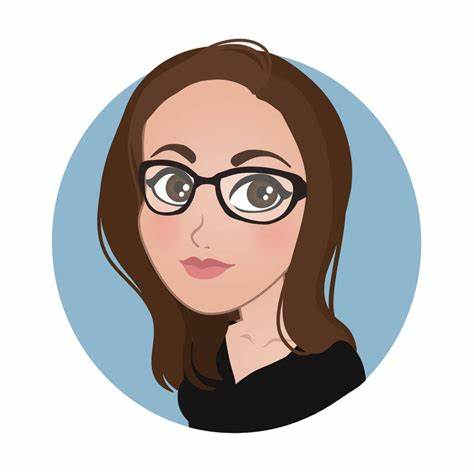
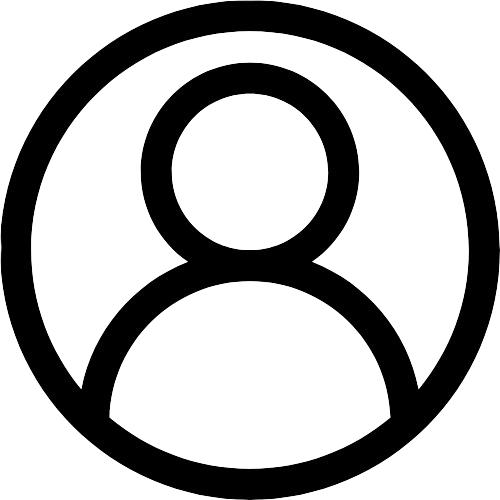
update

diff --git a/client/app/components/Mentorship/MentorPage.tsx b/client/app/components/Mentorship/MentorPage.tsx
@@ -1,0 +1,123 @@
+'use client';
+import { styles } from '@/app/styles/style';
+import React from 'react';
+import Image from 'next/image';
+import { FaSearch } from 'react-icons/fa';
+import Link from 'next/link';
+
+const MentorPage = () => {
+  return (
+    <div className="bg-white dark:bg-gray-900 min-h-screen text-black dark:text-white">
+      <div className="flex flex-col md:flex-row items-center px-6 md:px-16">
+        <div className="md:w-1/2 text-left">
+          <h1 className={' text-[50px] font-bold text-blue-500  text-center'}>Unlock
+             <span className='text-gray-600'>Guidance</span></h1>
+          <p className="text-lg font-Poppins">
+            Book a session with unstoppable mentors across domains & work
+            together to build your career!
+          </p>
+          <div className="flex mt-4">
+            <Link href="/MentorDetailsPage" className={styles.button + ' py-2 text-sm'}>
+              <FaSearch className="mr-2" /> Find Mentor
+            </Link>
+            <Link href="/MentorRegister"
+            className={styles.button + ' ml-4 px-4 py-2 text-sm'}>
+              Be a mentor</Link>
+          </div>
+        </div>
+        <div className="md:w-1/2 flex justify-center mt-6 md:mt-0">
+          <Image
+            src="/images/mentor1.png"
+            alt="mentors"
+            width={400}
+            height={400}
+            className="rounded-lg"
+          />
+        </div>
+      </div>
+      <div className="py-10 text-center">
+        <h2 className={'text-[30px] font-Poppins font-bold text-gray-700  dark:text-gray-300 '}>Top Mentors</h2>
+        <div className="grid grid-cols-1 sm:grid-cols-2 md:grid-cols-4 gap-6 mt-6 px-6">
+          <div className="bg-gray-100 dark:bg-gray-800 p-4 rounded-lg text-center">
+            <Image
+              src="/images/client1.jpg"
+              alt="Mentor 1"
+              width={80}
+              height={80}
+              className="rounded-full mx-auto"
+            />
+            <h3 className="mt-2 text-black dark:text-white">Vedansh Dubey</h3>
+            <p className="text-sm">HRBP @ Wipro | 150+ Case Competitions</p>
+          </div>
+          <div className="bg-gray-100 dark:bg-gray-800 p-4 rounded-lg text-center">
+            <Image
+              src="/images/client2.jpg"
+              alt="Mentor 2"
+              width={80}
+              height={80}
+              className="rounded-full mx-auto"
+            />
+            <h3 className="mt-2 text-black dark:text-white">Shiri Agarwal</h3>
+            <p className="text-sm">Product @ Telstra | MBA @ MDI</p>
+          </div>
+          <div className="bg-gray-100 dark:bg-gray-800 p-4 rounded-lg text-center">
+            <Image
+              src="/images/client3.jpg"
+              alt="Mentor 3"
+              width={80}
+              height={80}
+              className="rounded-full mx-auto"
+            />
+            <h3 className="mt-2 text-black dark:text-white">Aman Gupta</h3>
+            <p className="text-sm">Data Scientist @ Google</p>
+          </div>
+          <div className="bg-gray-100 dark:bg-gray-800 p-4 rounded-lg text-center">
+            <Image
+              src="/images/client1.jpg"
+              alt="Mentor 4"
+              width={80}
+              height={80}
+              className="rounded-full mx-auto"
+            />
+            <h3 className="mt-2 text-black dark:text-white">Neha Sharma</h3>
+            <p className="text-sm">Software Engineer @ Microsoft</p>
+          </div>
+          <div className="bg-gray-100 dark:bg-gray-800 p-4 rounded-lg text-center
+            flex">
+          <Image
+            src="/images/client1.jpg"
+            alt=""
+            width={50}
+            height={50}
+            className="rounded-full w-[50px] h-[50px]"
+          />
+          <Image
+            src="/images/client2.jpg"
+            alt=""
+            width={50}
+            height={50}
+            className="rounded-full w-[50px] h-[50px] ml-[-20px]"
+          />
+          <Image
+            src="/images/client3.jpg"
+            alt=""
+            width={50}
+            height={50}
+            className="rounded-full w-[50px] h-[50px] ml-[-20px]"
+          />   
+            <Link
+              href="/MentorDetailsPage"
+              className="dark:text-[#46e256] text-[crimson] "
+            >
+              Browse All Mentors
+            </Link>{' '}
+
+
+          </div>
+        </div>
+      </div>
+    </div>
+  );
+};
+
+export default MentorPage;

diff --git a/client/app/components/Mentorship/MentorRegister.tsx b/client/app/components/Mentorship/MentorRegister.tsx
@@ -1,0 +1,39 @@
+'use client';
+import React from 'react';
+import Image from 'next/image';
+
+
+const MentorRegister = () => {
+
+  return (
+    <div className="min-h-screen flex items-center justify-center bg-gray-100 dark:bg-gray-900">
+      <div className="flex flex-col md:flex-row items-center bg-white dark:bg-gray-800 p-8 rounded-lg shadow-lg">
+        {/* Left Content */}
+        <div className="md:w-1/2 text-center md:text-left">
+          <h2 className="text-2xl font-bold text-gray-900 dark:text-white">Become a Mentor Today!</h2>
+          <p className="text-gray-600 dark:text-gray-300 mt-2">
+            Join our mentor community and guide aspiring professionals to success.
+          </p>
+          <button 
+            className="mt-4 px-6 py-2 bg-blue-500 text-white rounded-md hover:bg-blue-700"
+          >
+            Apply Now
+          </button>
+        </div>
+
+        {/* Right Image */}
+        <div className="md:w-1/2 flex justify-center mt-6 md:mt-0">
+          <Image
+            src="/images/mentor1.png"
+            alt="Apply as Mentor"
+            width={300}
+            height={300}
+            className="rounded-lg"
+          />
+        </div>
+      </div>
+    </div>
+  );
+};
+
+export default MentorRegister;

diff --git a/client/app/mentor/page.tsx b/client/app/mentor/page.tsx
@@ -2,17 +2,17 @@
 import React, { useState } from 'react'
 import Heading from '../utils/Heading'
 import Header from '../components/Header';
-import FAQ from '../components/FAQ/FAQ'
+import Mentorships from '../components/Mentorship/MentorPage'
 import Footer from '../components/Footer';
 
 const Page: React.FC = () => {
     const [open,setOpen]=useState(false);
-    const [activeItem]=useState(4);
+    const [activeItem]=useState(2);
     const [route,setRoute]=useState("Login");
   return (
-    <div className='min-h-screen'>
+    <div>
         <Heading
-        title="LearnWise-FAQ"
+        title="About-LearnWise"
         description='Learnwise is a platform for students and mentors to grow together'
         keywords="Programming,Mern,Projects,Research"
         />
@@ -24,7 +24,7 @@ const Page: React.FC = () => {
         route={route}
         setRoute={setRoute}
         />
-        <FAQ/>
+        <Mentorships/>
         <Footer/>
     </div>
   )

diff --git a/client/app/utils/NavItems.tsx b/client/app/utils/NavItems.tsx
@@ -13,13 +13,14 @@ export const navItemsData = [
     url: '/courses',
   },
   {
+    name:'Mentorships',
+    url:'/mentor'
+  },
+  {
     name: 'About',
     url: '/about',
   },
-  {
-    name: 'FAQ',
-    url: '/faq',
-  },
+
 ];
 
 type Props = {
@@ -65,7 +66,7 @@ const NavItems: React.FC<Props> = ({ activeItem, isMobile }) => {
                 <span
                   className={`${
                     activeItem === index
-                      ?  'dark:text-[#376fa3] text-[crimson]'
+                      ?  'dark:text-[#376fa3] text-[#c748d0]'
                       : 'dark:text-white text-black'
                   } block py-5 text-[18px] px-6 font-Poppins font-[400]`}
                 >

diff --git a/client/app/styles/style.ts b/client/app/styles/style.ts
@@ -2,6 +2,6 @@ export const styles ={
     title:"text-[25px]  text-black dark:text-white  font-[500] font-Poppins text-center py-2",
     label:"text-[16px] font-Poppins text-black dark:text-white",
     input:"w-full text-black dark:text-white  bg-transparent border rounded h-[40px] px-2 outline-none mt-[10px] font-Poppins",
-    button:"flex flex-row justify-center items-center py-3 py-6 rounded-full cursor-pointer bg-[#2190ff] min-h-[45px] w-full text-[16px] font-Poppins font-semibold"
+    button:"flex flex-row justify-center items-center py-2 rounded-full cursor-pointer bg-[#2190ff] min-h-[45px] w-full text-[16px] font-Poppins font-semibold"
 }
 

diff --git a/client/app/about/page.tsx b/client/app/about/page.tsx
@@ -7,7 +7,7 @@ import Footer from '../components/Footer';
 
 const Page: React.FC = () => {
     const [open,setOpen]=useState(false);
-    const [activeItem]=useState(2);
+    const [activeItem]=useState(3);
     const [route,setRoute]=useState("Login");
   return (
     <div>

diff --git a/client/app/components/Mentorship/MentorsDetailsPage.tsx b/client/app/components/Mentorship/MentorsDetailsPage.tsx
@@ -1,0 +1,10 @@
+import React from 'react'
+
+
+const MentorsDetailsPage = () => {
+  return (
+    <div>MentorsDetailsPage</div>
+  )
+}
+
+export default MentorsDetailsPage

diff --git a/client/app/components/Mentorship/MentorsDetails.tsx b/client/app/components/Mentorship/MentorsDetails.tsx
@@ -1,0 +1,10 @@
+import React from 'react'
+
+
+const MentorsDetails = () => {
+  return (
+    <div>MentorsDetails</div>
+  )
+}
+
+export default MentorsDetails
